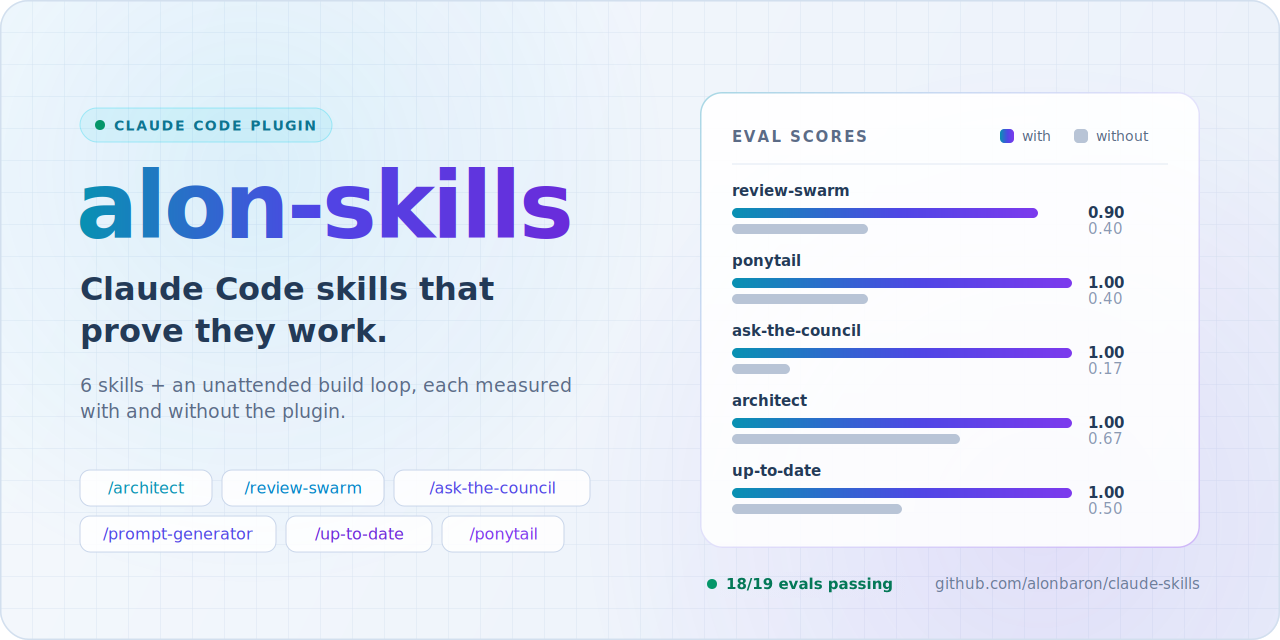
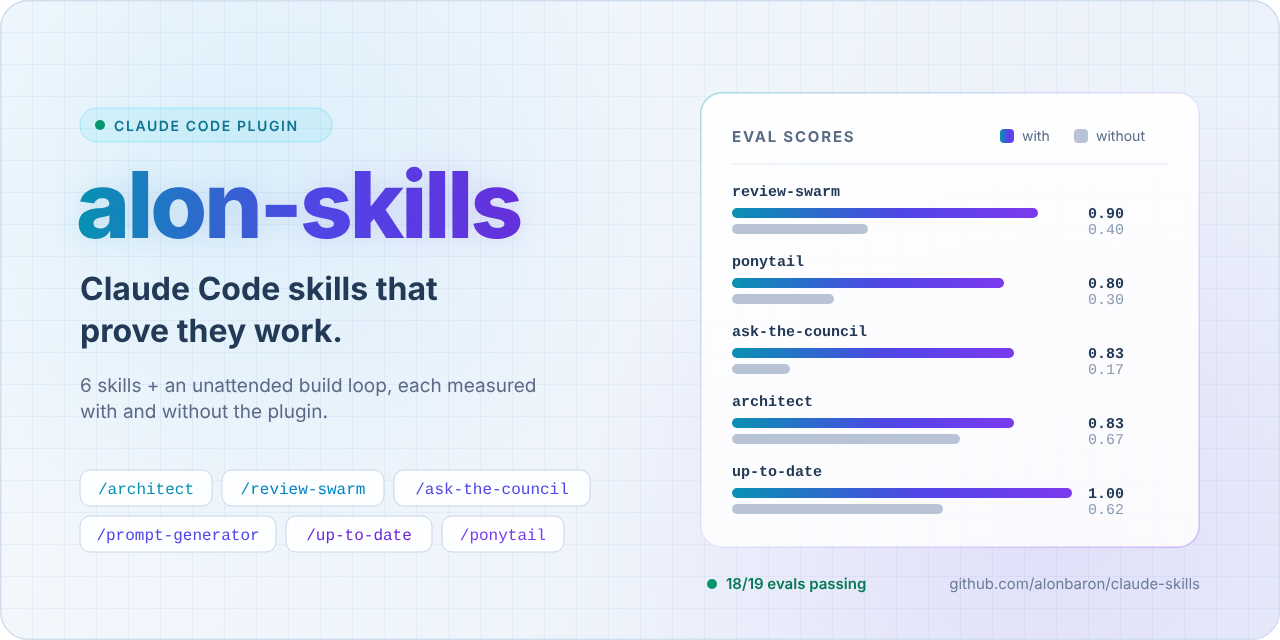
docs: headline eval scores match the published Fable runs (#10)
The table under "Proof, not promises", the banner and the social preview still carried scores from an earlier pass. They now match the 2026-10-04 Fable 5.1 runs on the eval-results branch (37198713961 and 37218381217), which the Evals table already used:

- ponytail pushback-on-abstraction: 1.00 / 0.40 -> 0.80 / 0.30, and the row no longer says it names the upgrade trigger (that grader failed in both with-plugin runs)
- ask-the-council hands-off-after-verdict: 1.00 -> 0.83 with the plugin
- architect right-sized-new-feature: 1.00 -> 0.83 with the plugin
- up-to-date fresh-branch-no-upstream: 0.50 -> 0.62 without the plugin

The trigger accuracy line now says each query ran twice, which is why the scores are out of 20.

diff --git a/README.md b/README.md
@@ -37,10 +37,10 @@ Most skill packs ask you to trust them. This one runs each skill through a [`cla
 | The situation | With the plugin | Without |
 |---|---|---|
 | A real diff with an N+1 query goes to **review-swarm**: parallel reviewers, verifiers, ranked report | **0.90** | 0.40 |
-| Someone asks for a pluggable-backend cache interface with one caller; **ponytail** ships the simple version and names the upgrade trigger | **1.00** | 0.40 |
-| **ask-the-council** reaches a verdict and hands the build to the right skill, separating opinion from fact | **1.00** | 0.17 |
-| A feature spec from scratch: **architect** asks the few questions that matter and right-sizes the docs | **1.00** | 0.67 |
-| A branch that was never pushed: **up-to-date** says so and compares against `main` instead of faking a sync | **1.00** | 0.50 |
+| Someone asks for a pluggable-backend cache interface with one caller; **ponytail** ships the simple version | **0.80** | 0.30 |
+| **ask-the-council** reaches a verdict and hands the build to the right skill, separating opinion from fact | **0.83** | 0.17 |
+| A feature spec from scratch: **architect** asks the few questions that matter and right-sizes the docs | **0.83** | 0.67 |
+| A branch that was never pushed: **up-to-date** says so and compares against `main` instead of faking a sync | **1.00** | 0.62 |
 
 18 of 19 cases pass at the 0.7 threshold; review-swarm's security hand-off scored 0.67, and the Evals section says why. Across 120 trigger prompts, each skill fired on 80–100% of the ones meant for it and never on the ones that weren't. Full table and method under [Evals](#-evals).
 
@@ -163,7 +163,7 @@ Two readings of the in-container run: pushback-on-abstraction scored 0.80 becaus
 
 The one case under 0.7 on Fable is still security-alone-hands-off, 0.67 with the plugin and 0.33 without. With the plugin, review-swarm stayed quiet and spawned nothing in both runs, as its `when_to_use` says, and Fable then reviewed the twelve-line auth middleware itself, accurately, instead of naming `/security-review`. Without the plugin Fable spawned three subagents for the same file, so the plugin now shows uplift on that case even though the hand-off grader fails in every arm. The skill is not the variable in the hand-off miss, so the rubric stays as written and the number stands. real-diff-ranked-report no longer times out: with the case limit raised to 1500 s both with-plugin runs finished (the longer one in 956 s, reviewers on sonnet and verifiers on opus both spawned), and the only mark it lost was one judge call. That judge call, one more on no-remote-boundary and both without-plugin runs of no-remote-boundary were lost to the plan's session limit, which the run reached about 25 minutes in, so no-remote-boundary's 0.75 is one judged run and its 0.50 without the plugin is the process grader alone.
 
-Trigger accuracy (120 queries, 20 per skill, half should fire): architect 20/20, ask-the-council 20/20, ponytail 19/20, prompt-generator 17/20, review-swarm 16/20, up-to-date 20/20 on should-fire; no false fires on any skill.
+Trigger accuracy (120 queries, 20 per skill, half should fire, each run twice): architect 20/20, ask-the-council 20/20, ponytail 19/20, prompt-generator 17/20, review-swarm 16/20, up-to-date 20/20 on should-fire; no false fires on any skill.
 
 ---
 
